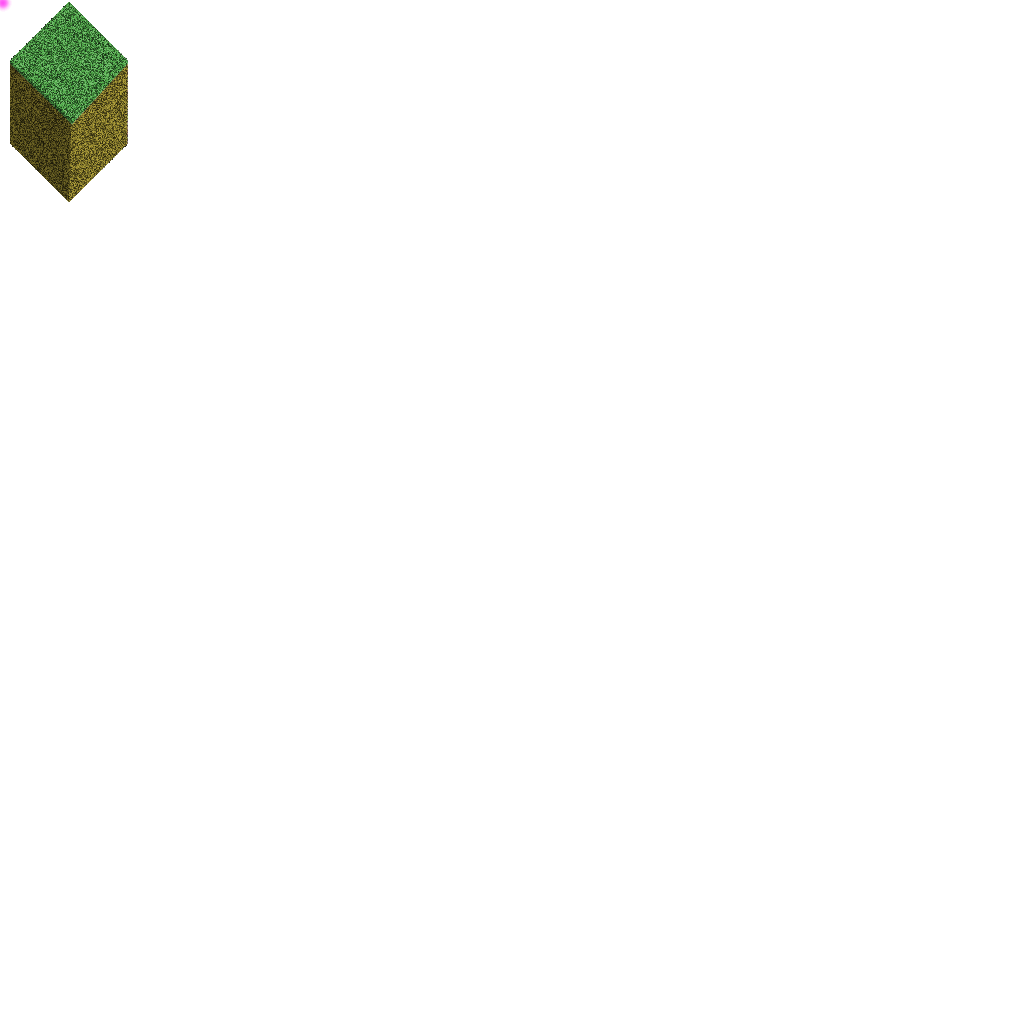
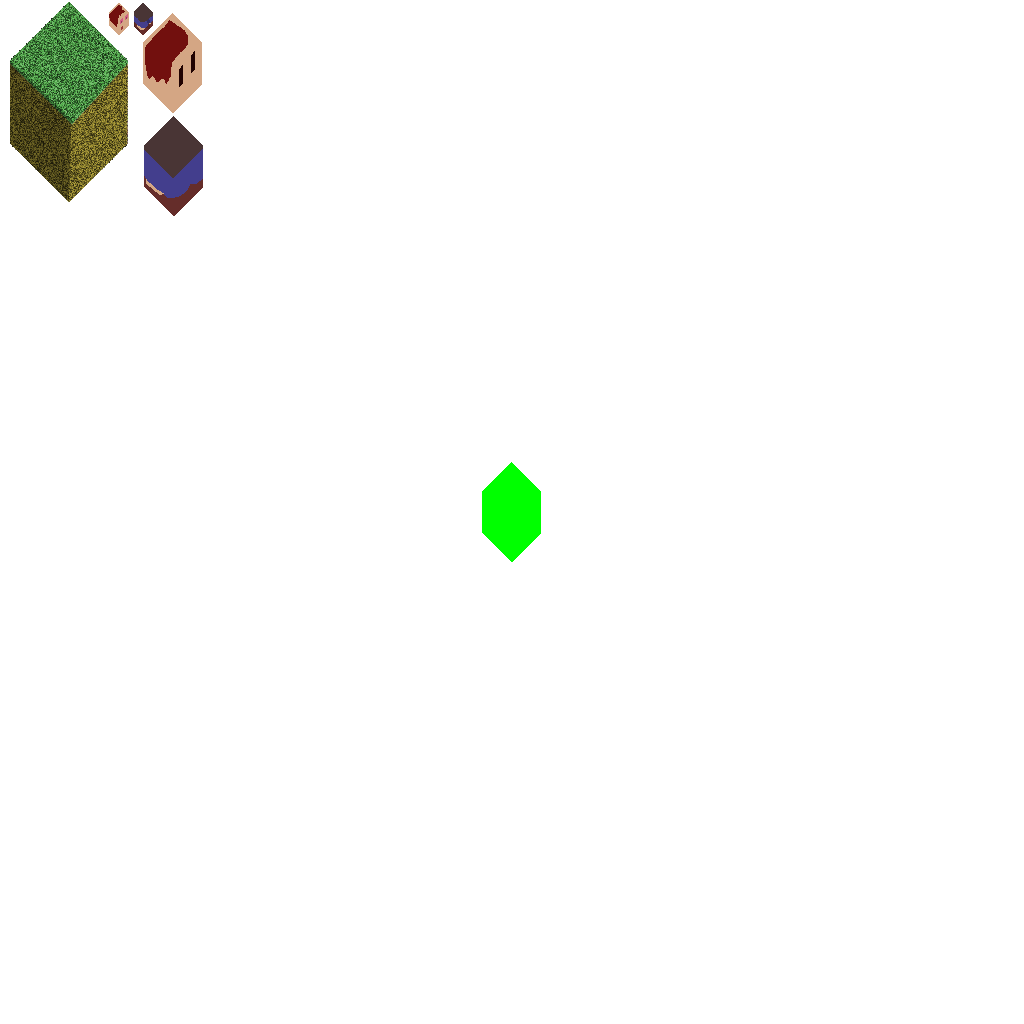
Simplifications testing

Changed region(s): [[0.0938, 0.0, 0.2188, 0.2188], [0.4688, 0.4375, 0.5312, 0.5625]]

diff --git a/src/main.c b/src/main.c
@@ -1357,27 +1357,34 @@ int main(){
   var green = material_new(MATERIAL_SOLID_COLOR, 0xFF00FF00);
   var red = material_new(MATERIAL_SOLID_COLOR, 0xFF0000FF);
   var blue = material_new(MATERIAL_SOLID_COLOR, 0xFFFF0000);
-  var turquise = material_new(MATERIAL_SOLID_COLOR, 0xFFFFFF00);
+  //var turquise = material_new(MATERIAL_SOLID_COLOR, 0xFFFFFF00);
   var white = material_new(MATERIAL_SOLID_COLOR, 0xFFFFFFFF);
 
   texdef_index tex1 = load_texture("atlas.png");
-  float x1 = 11;
-  float y1 = 1;
-  float x2 = 128;
-  float y2 = 201;
+
   float imsize = 1024;
 
+  tile_material_index sub_texture(texdef_index tex, float x1, float y1, float x2, float y2){
+    subtexdef_index tile = load_sub_texture(tex, x1 / imsize, y1 / imsize, (x2 - x1) / imsize, (y2 - y1) / imsize);
+    return material_new(MATERIAL_TEXTURED, tile.index);
+  }
   
-  subtexdef_index tile1 = load_sub_texture(tex1, x1 / imsize, y1 / imsize, (x2 - x1) / imsize, (y2 - y1) / imsize);
-
-  var textured1 = material_new(MATERIAL_TEXTURED, tile1.index);
-  blue = textured1;
-  red = textured1;
+  tile_material_index grass = sub_texture(tex1, 10, 3, 128, 201);
+  //tile_material_index head = sub_texture(tex1, 109, 3, 129, 35);
+  tile_material_index head = sub_texture(tex1, 143, 13, 202, 113);
+  //tile_material_index legs= sub_texture(tex1, 134, 1, 153, 35);
+  tile_material_index legs= sub_texture(tex1, 144, 116, 203, 216);
+  UNUSED(head);
+  UNUSED(legs);
+  blue = grass;
+  red = grass;
+  
   u32 l3 = create_tile(green);
+  UNUSED(l3);
   u32 l4 = create_tile(red);
   u32 l5 = create_tile(blue);
   u32 l2 = create_tile(white);
-  u32 l6 = create_tile(textured1);
+  u32 l6 = create_tile(grass);
 
   UNUSED(l6);
 
@@ -1386,9 +1393,9 @@ int main(){
   octree * submodel = octree_new();
   {
     octree_index index = submodel->first_index;
-    octree_index_get_payload(octree_index_get_childi(index, 0))[0] = l3;
-    octree_index_get_payload(octree_index_get_childi(index, 2))[0] = create_tile(turquise);
-    octree_index_get_payload(octree_index_get_childi(index, 1))[0] = l3;
+    octree_index_get_payload(octree_index_get_childi(index, 0))[0] = create_tile(legs);
+    octree_index_get_payload(octree_index_get_childi(index, 2))[0] = create_tile(head);
+    //octree_index_get_payload(octree_index_get_childi(index, 1))[0] = l3;
   }
   
   u32 i1 = game_context_alloc(game_ctx);
